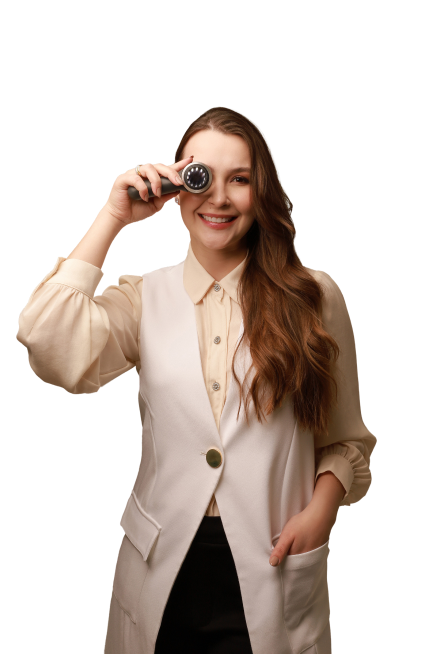
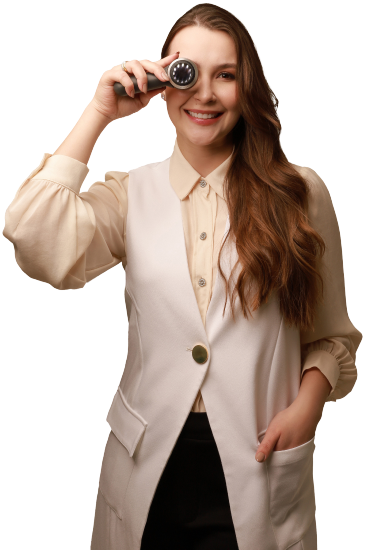
Alterações de código, fontes, imagens, etc

diff --git a/src/components/NavBar/NavBar.tsx b/src/components/NavBar/NavBar.tsx
@@ -1,34 +1,41 @@
 "use client"
 import { IconMenu } from "@/exports";
 import { easeInOut, motion } from "framer-motion";
-import Cinzel from "next/font/local";
 import Image from "next/image";
 import Link from "next/link";
 import { useState } from "react";
 
-const FontCinzel = Cinzel({
-  src: "../../fonts/Cinzel/static/Cinzel-Regular.ttf",
-  variable: "--cinzel-static",
-});
+interface NavBarProps {
+  setMenuOpen: (open: boolean) => void;
+}
 
-export default function NavBar() {
+export default function NavBar({ setMenuOpen }: NavBarProps) {
 
   const [isOpen, setIsOpen] = useState(false);
-  const toggleMenu = () => setIsOpen(prevState => !prevState);
+  const toggleMenu = () => {
+    const newState = !isOpen;
+    setIsOpen(newState);
+    setMenuOpen(newState);
+  };
+ 
 
   return (
-    <motion.nav className={`${FontCinzel.variable} font-cinzel justify-between h-24 flex w-full bg-[#714D35]`}
+    <motion.nav 
     initial={{ y: -40, opacity: 0 }}
     animate={{ y: 0, opacity: 1 }}
-    transition={{ duration: 0.8, ease: easeInOut }}>
+    transition={{ duration: 0.8, ease: easeInOut }}
+    className={`${isOpen ? "scale-110" : "mr-20"} justify-between bg-[#C49A6C]/60 h-24 flex w-full`}
+    >
 
-      <Image src="/logo.png" alt="Logo de Rafaela Mazieiro" width={212} height={96} className="cursor-pointer 
-        max-h-[200px] p-1" />
+      <Image src="/logo.png" alt="Logo de Rafaela Mazieiro" width={212} quality={100} unoptimized 
+      height={96} className="cursor-pointer max-h-[200px] p-1" />
 
       {/* ------------------------------------ MENU HAMBURGER ------------------------------------ */}
-      <motion.div className={isOpen ?
-        /* ABERTO */ "w-[30dvh] mt-0 bg-[#B79685] transition-all duration-300 z-50 fixed right-0 h-[46.5dvh] " :
-        /* FECHADO */ "cursor-pointer mt-5 mr-5 transition-all duration-300 rounded-md hover:bg-white/10 w-[50px] h-[50px]"}>
+      <motion.div className={`transition-all duration-300 ${isOpen ? 
+        /* ABERTO */ "w-[30dvh] rounded-bl-sm mt-0 bg-[#DE9091] z-50" + 
+        "fixed right-0 h-[46.5dvh] " :
+        /* FECHADO */ "cursor-pointer mt-5 mr-5 rounded-md" + 
+        "hover:bg-white/10 w-[50px] h-[50px]"}`}>
 
         <IconMenu className={isOpen ?
           /* ABERTO */ "hidden" : 
@@ -40,11 +47,19 @@ export default function NavBar() {
           /* FECHADO */ "hidden"}
           initial={{ x: isOpen? -40 : 0, opacity: isOpen? 0 : 1 }}
           animate={{ x: isOpen ? 0 : -40, opacity: isOpen? 1 : 0 }}
-          transition={{ duration: 0.5, ease: easeInOut }}>
-          <button onClick={toggleMenu} className={isOpen ? /* ABERTO */ "hover:bg-black/10 py-2" : /* FECHADO */ "hidden transition-all duration-300"}>Fechar</button>
-          <Link href="/"/* HOME */ className={isOpen ? /* ABERTO */ "hover:bg-black/10 py-2" : /* FECHADO */ ""}>Inicio</Link>
-          <Link href="/Sobre" className={isOpen ? /* ABERTO */ "hover:bg-black/10 py-2" : /* FECHADO */ ""}>Sobre</Link>
-          <Link href="/Contatos" className={isOpen ? /* ABERTO */ "hover:bg-black/10 py-2" : /* FECHADO */ ""}>Contatos</Link>
+          transition={{ duration: 0.3, ease: easeInOut }}>
+          <button onClick={toggleMenu} className={isOpen ? 
+            /* ABERTO */ "hover:bg-black/10 py-2" : 
+            /* FECHADO */ ""}>Fechar</button>
+          <Link href="/"/* HOME */ className={isOpen ? 
+            /* ABERTO */ "hover:bg-black/10 py-2" : 
+            /* FECHADO */ ""}>Inicio</Link>
+          <Link href="/About" className={isOpen ? 
+            /* ABERTO */ "hover:bg-black/10 py-2" : 
+            /* FECHADO */ ""}>Sobre</Link>
+          <Link href="/Contacts" className={isOpen ? 
+            /* ABERTO */ "hover:bg-black/10 py-2" : 
+            /* FECHADO */ ""}>Contatos</Link>
         </motion.ul>
       </motion.div>
     </motion.nav>

diff --git a/src/components/SectionTop/SectionTop.tsx b/src/components/SectionTop/SectionTop.tsx
@@ -1,9 +1,30 @@
+"use client"
+import { easeInOut, motion } from "framer-motion";
 import Image from "next/image";
 
-export default function SectionTop() {
+interface SectionTopProps {
+  isOpen: boolean;
+}
+
+export default function SectionTop({ isOpen }: SectionTopProps) {
   return(
-    <div>
-      <Image src="/rafa.png" layout="intrinsic" objectFit="contain" alt="Foto Rafaela Mazieiro" quality={100} width={436} height={654}/>
-    </div>
+    <section className={`w-full bg-[#C49A6C] ${isOpen ? 
+      /* ABERTO */ "pr-[31dvh] transition-all duration-300 ease-in-out" : 
+      /* FECHADO */ "transition-all duration-300 ease-in-out"}`}>
+      <div className="flex flex-row justify-end">
+        <motion.h1 className="text-4xl px-[5%] content-center flex-1 w-10 text-white"
+        initial={{ scale: 0.7 }}
+        whileInView={{ scale: 1 }}
+        transition={{ duration: 0.8, ease: easeInOut }}>
+          Sua pele merece o maior cuidado. <br />Vamos trabalhar juntos?</motion.h1>
+        <motion.div
+          initial={{ x: -40, opacity: 0 }}
+          animate={{ x: 0, opacity: 1 }}
+          transition={{ duration: 0.8, ease: easeInOut }}>
+          <Image src="/rafa.png" alt="Foto Rafaela Mazieiro" unoptimized quality={100} width={365} 
+            height={552}/>
+        </motion.div>
+      </div>
+    </section>
   );
-};
+};  

diff --git a/src/components/Copyright/Copyright.tsx b/src/components/Copyright/Copyright.tsx
@@ -1,11 +1,13 @@
 "use client"
 import { motion } from "framer-motion";
+import Link from "next/link";
 
 export default function CopyRight() {
   return (
     <div className="items-end flex flex-row">
-      <motion.footer className="w-full p-2 bg-[#714D35] text-[#DC9192] text-center">
-        <small className="text-sm">&copy; {new Date().getFullYear()} Fabio Ghizoni. Todos os direitos reservados.</small>
+      <motion.footer className="w-full p-2 bg-[#d3b799] text-[#714d35] text-center">
+        <small className="text-sm">&copy; {new Date().getFullYear()} <Link className="underline" href="https://www.instagram.com/fabio.ghizoni_/">Fabio Ghizoni</Link>. 
+          Todos os direitos reservados.</small>
       </motion.footer>
     </div>
   );

diff --git a/src/app/page.tsx b/src/app/page.tsx
@@ -1,10 +1,14 @@
-import { CopyRight, NavBar, SectionEnd, SectionTop } from "@/exports";
+"use client"
+import { CopyRight, NavBar, SectionEnd, SectionQuite, SectionTop } from "@/exports";
+import { useState } from "react";
 
 export default function Home() {
+  const [isOpen, setMenuOpen] = useState<boolean>(false);
   return (
     <div>
-      <NavBar />
-      <SectionTop />
+      <NavBar setMenuOpen={setMenuOpen}/>
+      <SectionTop isOpen={isOpen}/>
+      <SectionQuite />
       <SectionEnd />
       <CopyRight />
     </div>

diff --git a/src/exports.ts b/src/exports.ts
@@ -1,6 +1,7 @@
 export { default as CopyRight } from "@/components/CopyRight/CopyRight";
 export { default as NavBar } from "@/components/NavBar/NavBar";
 export { default as SectionEnd } from "@/components/SectionEnd/SectionEnd";
+export { default as SectionQuite } from "@/components/SectionQuite/SectionQuite";
 export { default as SectionTop } from "@/components/SectionTop/SectionTop";
 export { default as IconMenu } from "../public/IconMenu";
 

diff --git a/src/app/globals.css b/src/app/globals.css
@@ -3,14 +3,14 @@
 @tailwind utilities;
 
 :root {
-  --background: #d3b799;
-  --foreground: #000000;
+  --background: #000000;
+  --foreground: #d3b799;
 }
 
 @media (prefers-color-scheme: dark) {
   :root {
-    --background: #d3b799;
-    --foreground: #ffffff;
+    --background: #000000;
+    --foreground: #d3b799;
   }
 }
 

diff --git a/src/components/sectionend/sectionend.tsx b/src/components/sectionend/sectionend.tsx
@@ -1,6 +1,6 @@
 export default function SectionEnd() {
   return (
-    <section className="border-2 bg-white">
+    <section className="border-2 h-96 bg-white">
 
     </section>
   );

diff --git a/src/components/SectionQuite/SectionQuite.tsx b/src/components/SectionQuite/SectionQuite.tsx
@@ -1,0 +1,7 @@
+export default function SectionQuite() {
+  return(
+    <section className="w-full h-96 bg-black">
+      <h1>Sobre mim</h1>
+    </section>
+  );
+}; 

diff --git a/src/app/Contacts/page.tsx b/src/app/Contacts/page.tsx
@@ -1,0 +1,5 @@
+export default function Contacts() {
+  return(
+    <></>
+  )
+}

diff --git a/src/app/About/page.tsx b/src/app/About/page.tsx
@@ -1,0 +1,5 @@
+export default function About() {
+  return(
+    <></>
+  )
+}
